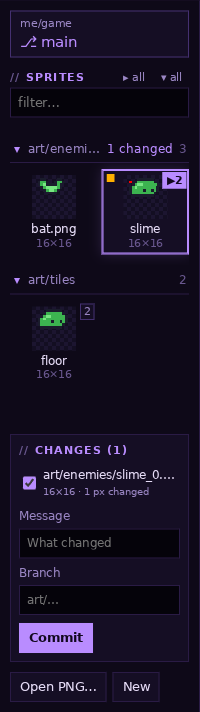
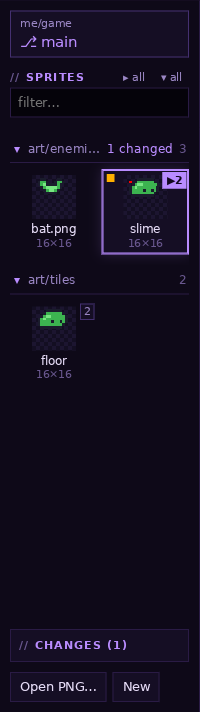
Sync the name field with the picked branch; shots incl. the panel

diff --git a/spritewright.js b/spritewright.js
@@ -2113,7 +2113,7 @@
       if (sel) sel.innerHTML = names.map((b) => `<option value="${esc(b)}">⎇ ${esc(b)}</option>`).join('') + '<option value="">＋ New branch…</option>';
       const dl = $('#pf-c-branchlist');
       if (dl && gh.slug && token && names.length) dl.innerHTML = names.map((b) => `<option value="${esc(b)}">`).join('');
-      if (commitBranchWant) setCommitBranch(commitBranchWant);
+      setCommitBranch(commitBranchWant || (sel && sel.value) || '');
     }
     async function submitCommit() {
       commitFloat();
